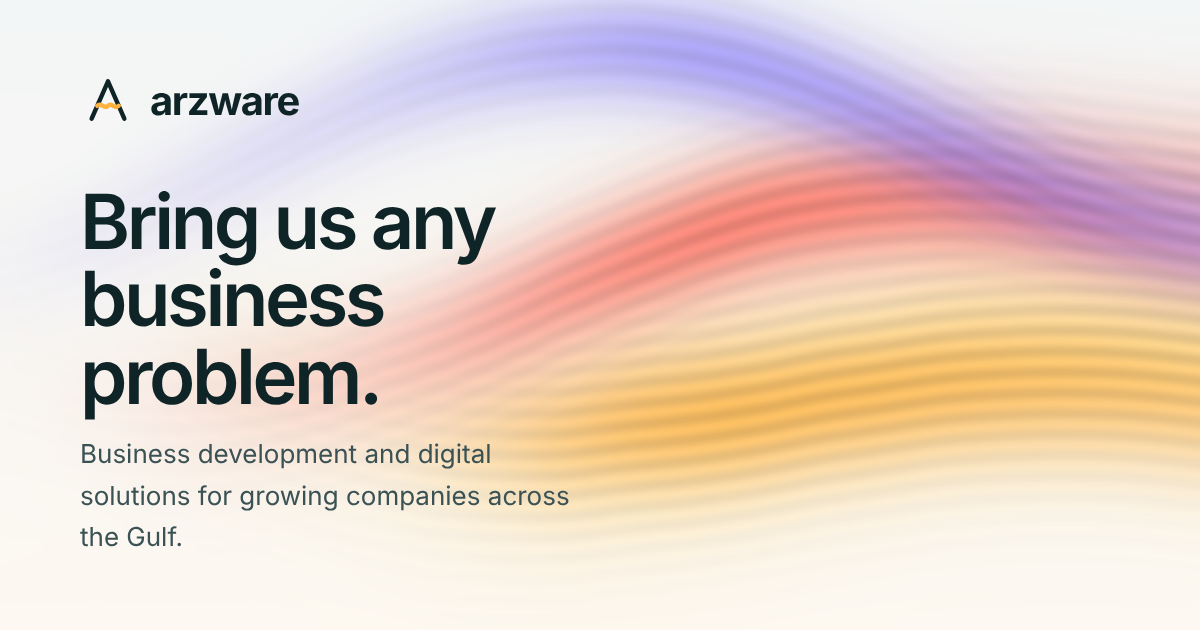
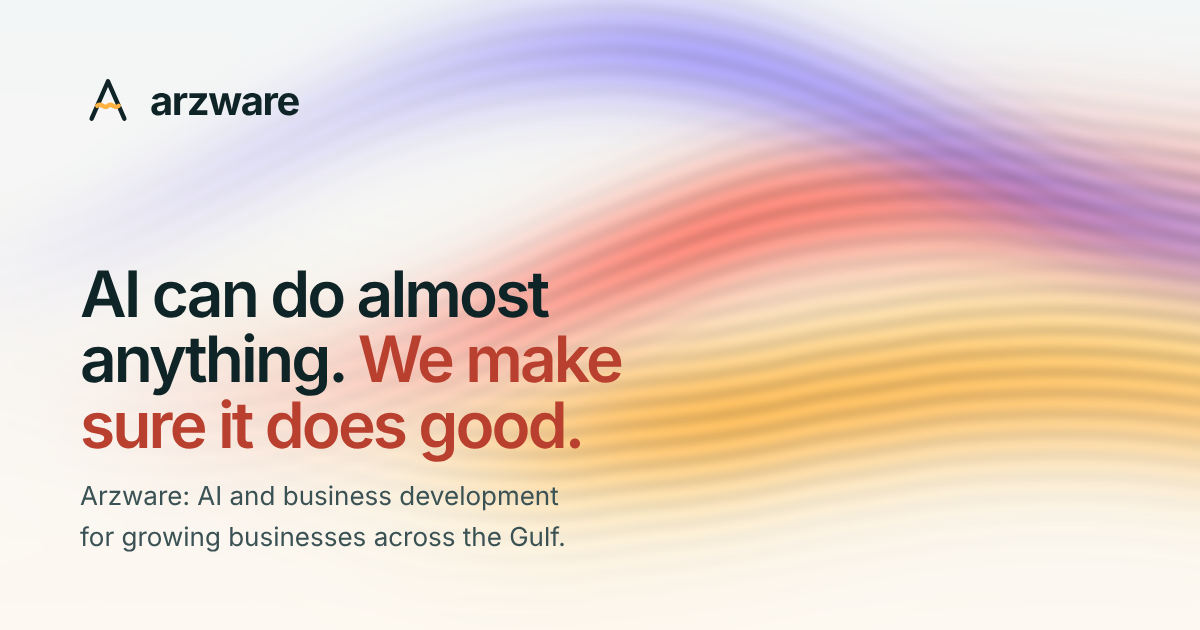
Hero: introduce Arzware with the new slogan
"AI can do almost anything. We make sure it does good." with a one-line
introduction and explore buttons. Adds a How we use AI section to the
Approach page and updates the share image.

Claude-Session: https://claude.ai/code/session_01U5Wmbg2bJp6dhe5SJyFYiN

Changed region(s): [[0.0617, 0.3016, 0.5242, 0.8143], [0.0617, 0.8444, 0.4625, 0.8746]]

diff --git a/src/pages/index.html b/src/pages/index.html
@@ -2,10 +2,9 @@
 <section class="hero" aria-labelledby="hero-title">
   <canvas class="hero-field" id="ribbon" data-gl="ribbon" aria-hidden="true"></canvas>
   <div class="wrap">
-    <p class="label">Business development and digital solutions</p>
-    <h1 id="hero-title">Bring us any business <span class="word" aria-hidden="true"><span class="on">problem.</span><span>idea.</span><span>bottleneck.</span><span>question.</span></span><span class="sr-only">problem.</span></h1>
-    <p class="lead">Arzware researches your business and your market, then builds the solution or brings in the right people. For growing companies across the Gulf.</p>
-    <div class="actions"><a class="btn btn-primary" href="#what-we-do">See what we do</a><a class="btn btn-secondary" href="/approach/">How we work</a></div>
+    <h1 id="hero-title" class="slogan">AI can do almost anything. <span class="turn">We make sure it does good.</span></h1>
+    <p class="lead">Arzware is an AI and business development company. We research how a business works, then build the intelligent tools that help it, and the people around it, grow.</p>
+    <div class="actions"><a class="btn btn-primary" href="#what-we-do">Explore our work</a><a class="btn btn-secondary" href="/approach/#ai">How we use AI</a></div>
   </div>
 </section>
 

diff --git a/src/pages/approach.html b/src/pages/approach.html
@@ -40,6 +40,22 @@
   </div>
 </section>
 
+<section class="section bg-warm" id="ai" aria-labelledby="ai-title">
+  <div class="wrap split">
+    <div class="stack"><p class="label">How we use AI</p><h2 id="ai-title">AI is in everything we do. So are people.</h2></div>
+    <div class="stack">
+      <p class="lead">We use AI at every step: to research a business and its market, to find patterns in how customers behave, and inside the tools we build. We use it carefully, and we tell you exactly how.</p>
+      <ol class="numbered">
+        <li>We name every AI provider before anything is connected, and explain what each one can see.</li>
+        <li>If your data needs to stay with you, we can run AI locally instead.</li>
+        <li>AI gets one clear job at a time, such as bookings, order questions or drafting replies.</li>
+        <li>A person can always step in, and a person checks what matters before it goes out.</li>
+        <li>We use AI to help people, never to mislead them.</li>
+      </ol>
+    </div>
+  </div>
+</section>
+
 <section class="section" id="build-or-connect">
   <div class="wrap split">
     <div class="stack"><p class="label">Build or connect</p><h2>We build what we can. We connect you for the rest.</h2></div>

diff --git a/public/assets/styles.css b/public/assets/styles.css
@@ -525,3 +525,8 @@ a.post:hover { transform: translateY(-4px); color: var(--ink); }
 .cta-band .btn-secondary { background: rgba(15, 36, 39, .1); }
 .word span { justify-self: start; width: max-content; }
 .page-hero h1 { font-size: clamp(2.4rem, 1.5rem + 3vw, 4rem); max-width: 20ch; }
+
+/* Home hero slogan: statement, then the turn (SocialLab / Playa-style introduction) */
+:root { --coral-deep: #b9402f; }
+.hero h1.slogan { max-width: 15ch; font-size: clamp(2.6rem, 1rem + 5.4vw, 5.8rem); }
+.hero h1.slogan .turn { display: block; color: var(--coral-deep); }
